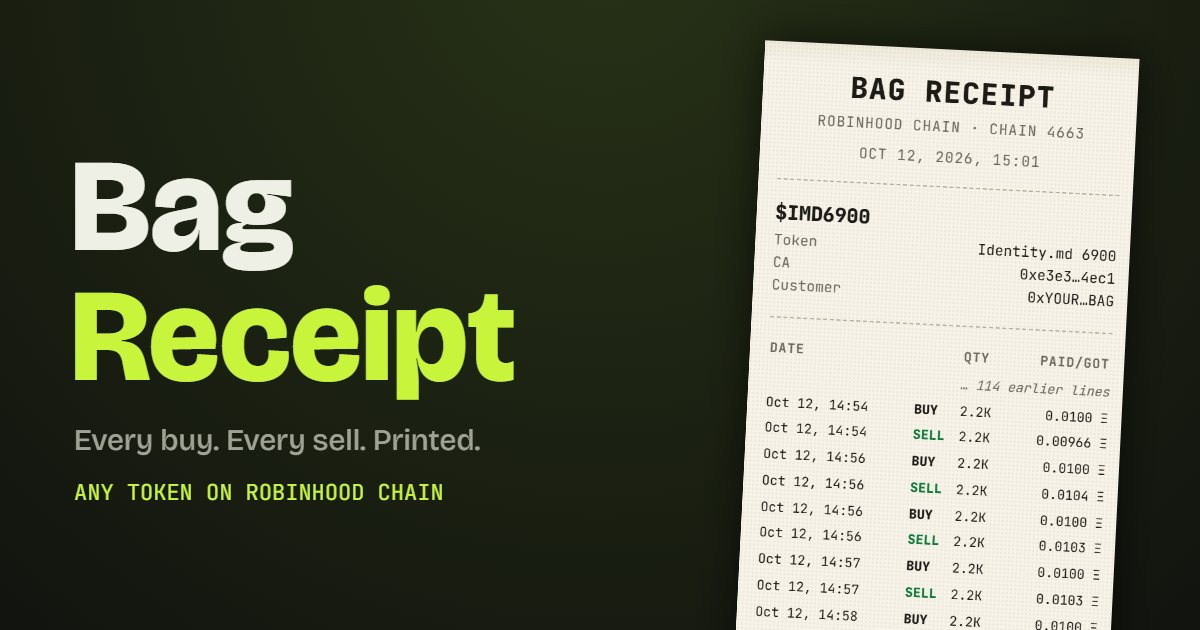
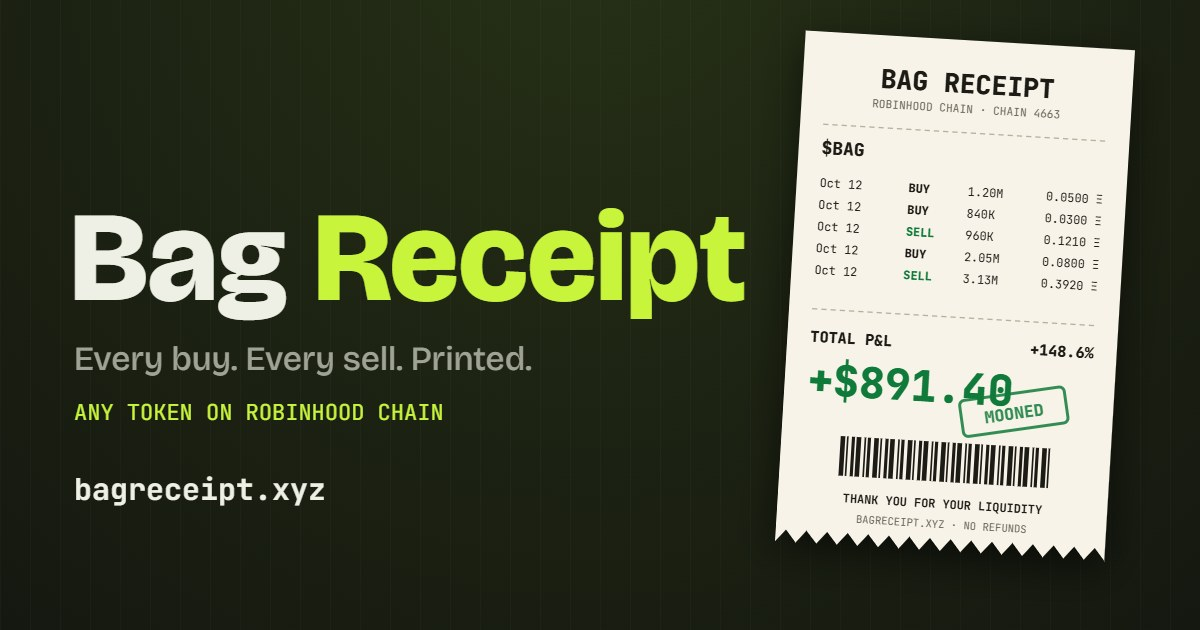
chore: show bagreceipt.xyz on receipts and share card

Changed region(s): [[0.0617, 0.0302, 0.9558, 1.0], [0.0617, 0.754, 0.37, 0.8143]]

diff --git a/app.js b/app.js
@@ -135,7 +135,7 @@ function renderReceipt(r) {
     el('div', { class: 'r-center' },
       el('p', { class: 'r-hash' }, short(lines.at(-1)?.hash || r.token)),
       el('p', { class: 'r-thanks' }, 'THANK YOU FOR YOUR LIQUIDITY'),
-      el('p', { class: 'r-sub' }, 'bag-receipt · no refunds'),
+      el('p', { class: 'r-sub' }, 'bagreceipt.xyz · no refunds'),
     ),
   ];
   ui.receipt.replaceChildren(...parts.filter(Boolean));
